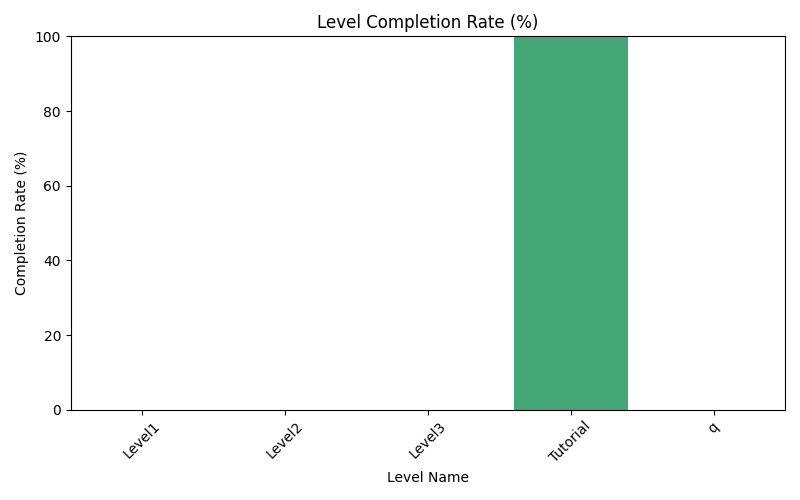
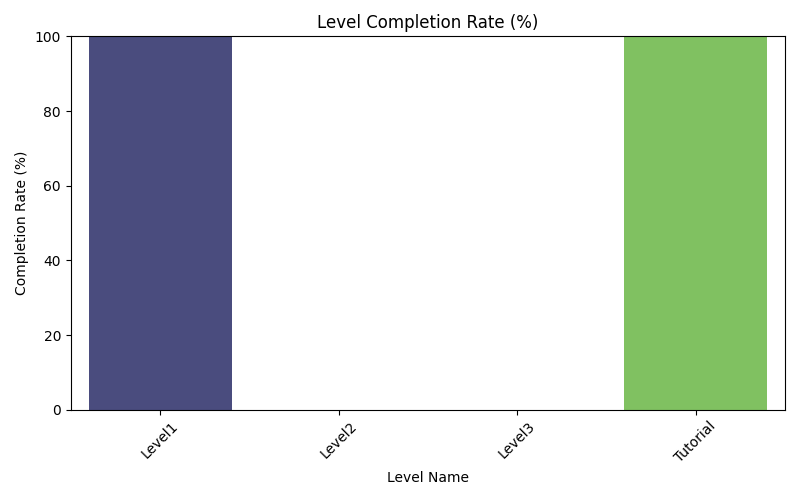
Added analytics for 4 metrics with graphs

diff --git a/Assets/Analytics/analytics.py b/Assets/Analytics/analytics.py
@@ -6,11 +6,17 @@ import matplotlib.pyplot as plt
 import seaborn as sns
 
 # Initialize Firebase
-cred_path = "/Users/namrathasairam/Phoenix/Assets/Analytics/doppledash-2a42c-firebase-adminsdk-fbsvc-951ff5d51d.json"
+cred_path = "Assets/Analytics/doppledash-2a42c-firebase-adminsdk-fbsvc-951ff5d51d.json"
 cred = credentials.Certificate(cred_path)
 firebase_admin.initialize_app(cred, {
     "databaseURL": "https://doppledash-2a42c-default-rtdb.firebaseio.com/"
 })
+
+
+def clean_dataframe(df):
+    if 'level_name' in df.columns:
+        return df[df['level_name'] != 'q']
+    return df
 
 
 def fetch_firebase_data(db_name):
@@ -20,8 +26,9 @@ def fetch_firebase_data(db_name):
         print(f"No data found in Firebase for {db_name}!")
         return pd.DataFrame()
     df = pd.DataFrame.from_dict(data, orient="index")
+
     print(f"Fetched {len(df)} records from {db_name}")
-    return df
+    return clean_dataframe(df)
 
 
 def plot_histogram(df):
@@ -32,9 +39,9 @@ def plot_histogram(df):
     plt.ylabel('Completion Time (seconds)')
     plt.xticks(rotation=45)
     plt.tight_layout()
-    plt.show()
     plt.savefig(
         "Assets/Analytics/Graphs/LevelCompletion/LevelCompletionTime.png")
+    # plt.show()
 
 
 def plot_countplot(df):
@@ -45,14 +52,14 @@ def plot_countplot(df):
     plt.xlabel("Level Name")
     plt.ylabel("Number of Completions")
     plt.tight_layout()
-    plt.show()
     plt.savefig(
         "Assets/Analytics/Graphs/LevelCompletion/LevelCompletion.png")
+    # plt.show()
 
 
-def plot_completion_rate(total_players, deaths_per_level):
+def plot_completion_rate(completed_players, total_players):
     completion_rate = (
-        total_players - deaths_per_level).fillna(0) / total_players * 100
+        completed_players / total_players) * 100
 
     plt.figure(figsize=(8, 5))
     sns.barplot(x=completion_rate.index,
@@ -63,9 +70,9 @@ def plot_completion_rate(total_players, deaths_per_level):
     plt.ylim(0, 100)
     plt.xticks(rotation=45)
     plt.tight_layout()
-    plt.show()
     plt.savefig(
         "Assets/Analytics/Graphs/LevelCompletion/LevelCompletionRate.png")
+    # plt.show()
 
 
 def plot_heatmap(df, player_type, title_prefix):
@@ -107,10 +114,15 @@ def plot_heatmap(df, player_type, title_prefix):
         plt.yticks(range(0, 21, 2))
 
         plt.tight_layout()
-        plt.show()
+        plt.savefig(
+            "Assets/Analytics/Graphs/PlayerDeaths/{player_type}/{level} DeathHeatmap.png".format(
+                player_type=player_type, level=level
+            )
+        )
+        # plt.show()
 
 
-def process_gravity_shift(df, title, cmap):
+def process_gravity_shift(df, title, cmap, player_type):
     if df.empty:
         print(f"No gravity shift data for {title}. Skipping heatmap.")
         return
@@ -145,7 +157,12 @@ def process_gravity_shift(df, title, cmap):
         plt.xlabel('X Position (binned)')
         plt.ylabel('Y Position (binned)')
         plt.tight_layout()
-        plt.show()
+        plt.savefig(
+            "Assets/Analytics/Graphs/GravityShift/{player_type}/{level} DeathHeatmap.png".format(
+                player_type=player_type, level=level
+            )
+        )
+        # plt.show()
 
 
 def extract_gravity_data(df, entity_type):
@@ -164,11 +181,34 @@ def extract_gravity_data(df, entity_type):
 
 
 def clone_usage(df):
-    clone_counts = df.groupby('level_name')['clone'].sum()
-    clone_counts = clone_counts[clone_counts > 0]
-    print("Levels with Clone Usage:")
-    print(clone_counts)
-    return clone_counts
+    clone_counts = df.groupby('level_name')['clone_usage_count'].sum()
+
+    plt.figure(figsize=(8, 5))
+    sns.barplot(x=clone_counts.index, y=clone_counts.values)
+    plt.title('Clone Usage per Level')
+    plt.xlabel('Level Name')
+    plt.ylabel('Number of Clones Used')
+    plt.xticks(rotation=45)
+    plt.tight_layout()
+    plt.savefig(
+        "Assets/Analytics/Graphs/CloneUsage/CloneUsage.png")
+    # plt.show()
+
+
+def clone_usage_boxplot(df):
+    sns.boxplot(x='level_name', y='first_activation_time', data=df)
+    plt.title('First Clone Activation Time per Level')
+    plt.xlabel('Level')
+    plt.ylabel('Time to First Clone Activation (seconds)')
+    plt.xticks(rotation=45)
+    medians = df.groupby('level_name')['first_activation_time'].median()
+    for i, median in enumerate(medians):
+        plt.text(i, median + 0.5, f"{median:.1f}s",
+                 horizontalalignment='center', color='black')
+    plt.tight_layout()
+    plt.savefig(
+        "Assets/Analytics/Graphs/CloneUsage/FirstActivationTime.png")
+    # plt.show()
 
 
 # Fetch data
@@ -176,33 +216,36 @@ df_completion = fetch_firebase_data("level_completion")
 df_deaths = fetch_firebase_data("player_deaths")
 df_gravity_shift_counts = fetch_firebase_data("gravity_logs")
 df_clone_usage = fetch_firebase_data("clone_usage")
+df_players = fetch_firebase_data("players")
 
 # Check data
 if df_completion.empty or df_deaths.empty:
     print("Required data missing. Exiting.")
 else:
     # Analysis
-    total_players = df_completion.groupby("level_name").size()
-    deaths_per_level = df_deaths[
-        (df_deaths["player_type"] == "clone") & (
-            df_deaths["level_name"] == "Level3")
-    ].groupby("level_name").size()
-    print(deaths_per_level)
-    print(total_players)
-    deaths_per_level["Tutorial"] = deaths_per_level.get("Tutorial", 0)
+    completed_players = df_completion.groupby("level_name").size()
+    total_players = df_players.groupby("level_name").size()
 
     plot_histogram(df_completion)
     plot_countplot(df_completion)
-    plot_completion_rate(total_players, deaths_per_level)
+    plot_completion_rate(completed_players, total_players)
 
     # Heatmaps
     plot_heatmap(df_deaths, "player", "Player")
     plot_heatmap(df_deaths, "clone", "Clone")
+
+    # Clone usage analysis
+    clone_usage(df_clone_usage)
+    clone_activation_times = df_clone_usage.groupby(
+        'level_name')['first_activation_time'].median()
+
+    clone_usage_boxplot(df_clone_usage)
 
     # Gravity shift analysis
     df_player = extract_gravity_data(df_gravity_shift_counts, 'player')
     df_clone = extract_gravity_data(df_gravity_shift_counts, 'clone')
 
     process_gravity_shift(
-        df_player, 'Gravity Shift Heatmap - Player', "YlOrRd")
-    process_gravity_shift(df_clone, 'Gravity Shift Heatmap - Clone', "Blues")
+        df_player, 'Gravity Shift Heatmap - Player', "YlOrRd", "player")
+    process_gravity_shift(
+        df_clone, 'Gravity Shift Heatmap - Clone', "Blues", "clone")

diff --git a/Assets/Scripts/Player.cs b/Assets/Scripts/Player.cs
@@ -24,6 +24,7 @@ public class Player : MonoBehaviour
         isGravityInverted = 1;
         isGrounded = true;
         winText.SetActive(false);
+        LevelManager.Instance.TrackPlayerStart(SceneManager.GetActiveScene().name);
     }
 
     void Update()
@@ -55,11 +56,6 @@ public class Player : MonoBehaviour
         {
             isGrounded = true;
         }
-        // if (collision.gameObject.CompareTag("Shock") || collision.gameObject.CompareTag("Laser"))
-        // {
-        //     LevelManager.Instance.TrackPlayerDeath(SceneManager.GetActiveScene().name, transform.position, "player");
-        //     RestartGame();
-        // }
     }
 
     void OnCollisionExit2D(Collision2D collision)

diff --git a/Assets/Scripts/Analytics/LevelManager.cs b/Assets/Scripts/Analytics/LevelManager.cs
@@ -1,4 +1,5 @@
 using UnityEngine;
+using System;
 
 public class LevelManager : MonoBehaviour
 {
@@ -39,6 +40,17 @@ public class LevelManager : MonoBehaviour
         Destroy(gameObject);
     }
 }
+
+    public void TrackPlayerStart(string levelName)
+    {
+        string playerID = Guid.NewGuid().ToString();
+        string timestamp = DateTime.UtcNow.ToString("yyyy-MM-dd HH:mm:ss");
+
+        string json = $"{{\"player_id\":\"{playerID}\", \"level_name\":\"{levelName}\", \"timestamp\":\"{timestamp}\"}}";
+
+        StartCoroutine(FirebaseUtility.SendDataToFirebase(json, "players"));
+
+    }
 
     public void TrackLevelCompletion(string levelName, float completionTime)
     {
